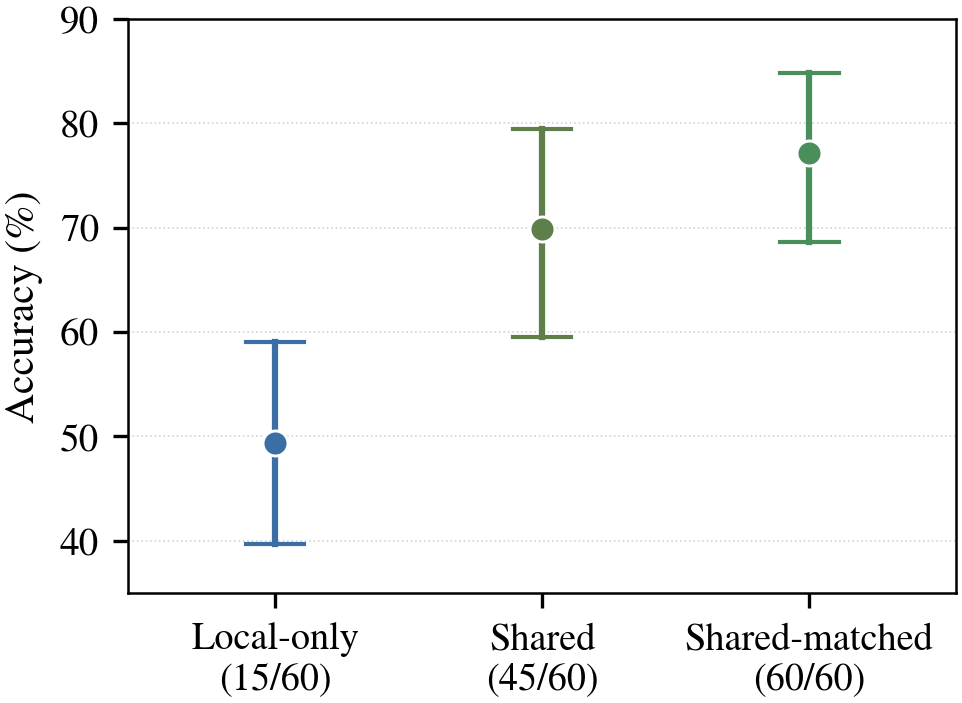
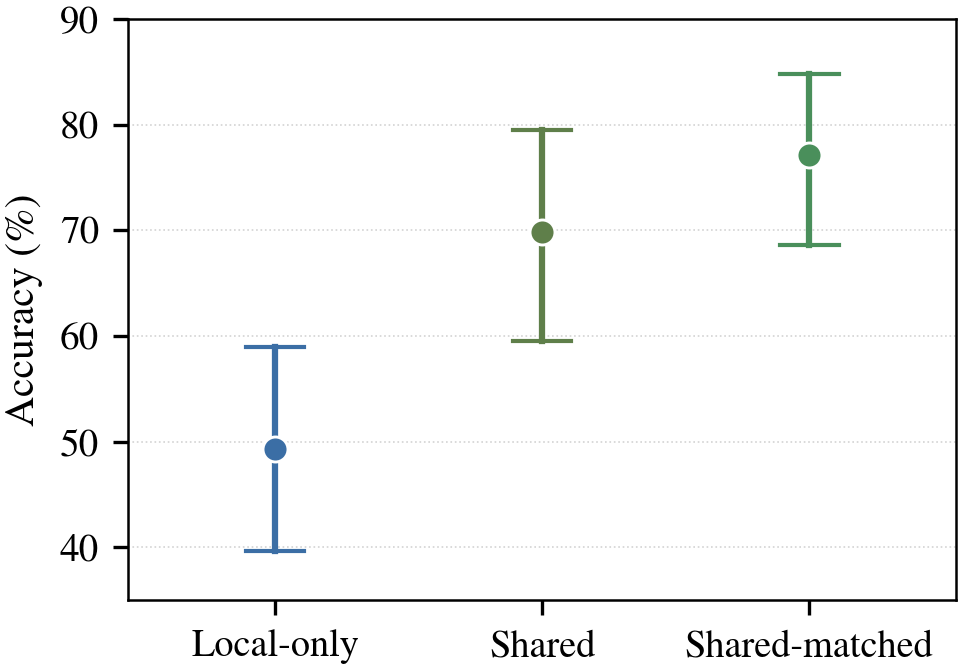
fig_local_45_matched: drop the coverage fractions from the axis labels

diff --git a/ExpEvo_release/runs/tsc_collaboration_hetero/scripts/plot_three_points.py b/ExpEvo_release/runs/tsc_collaboration_hetero/scripts/plot_three_points.py
@@ -17,16 +17,16 @@ cov = {r["condition"]: r for r in csv.DictReader(open(os.path.join(HERE, "result
 sweep = {int(r["coverage_questions"]): r for r in csv.DictReader(open(os.path.join(HERE, "results", "coverage_sweep.csv")))}
 
 points = [
-    ("Local-only\n(15/60)", float(cov["Local-only"]["accuracy_percent"]),
+    ("Local-only", float(cov["Local-only"]["accuracy_percent"]),
      float(cov["Local-only"]["ci_lower"]), float(cov["Local-only"]["ci_upper"]), "#3b6ea5"),
-    ("Shared\n(45/60)", float(sweep[45]["accuracy_percent"]),
+    ("Shared", float(sweep[45]["accuracy_percent"]),
      float(sweep[45]["ci_lower"]), float(sweep[45]["ci_upper"]), "#5f7f4a"),
-    ("Shared-matched\n(60/60)", float(cov["Shared-matched"]["accuracy_percent"]),
+    ("Shared-matched", float(cov["Shared-matched"]["accuracy_percent"]),
      float(cov["Shared-matched"]["ci_lower"]), float(cov["Shared-matched"]["ci_upper"]), "#4a8f5b"),
 ]
 
-fig, ax = plt.subplots(figsize=(3.45, 2.62))
-fig.subplots_adjust(left=0.175, right=0.975, top=0.955, bottom=0.225)
+fig, ax = plt.subplots(figsize=(3.45, 2.45))
+fig.subplots_adjust(left=0.175, right=0.975, top=0.955, bottom=0.165)
 for x, (label, acc, lo, hi, col) in enumerate(points):
     ax.plot([x, x], [lo, hi], "-", color=col, lw=1.5)
     ax.plot([x - 0.11, x + 0.11], [lo, lo], "-", color=col, lw=1.0)
